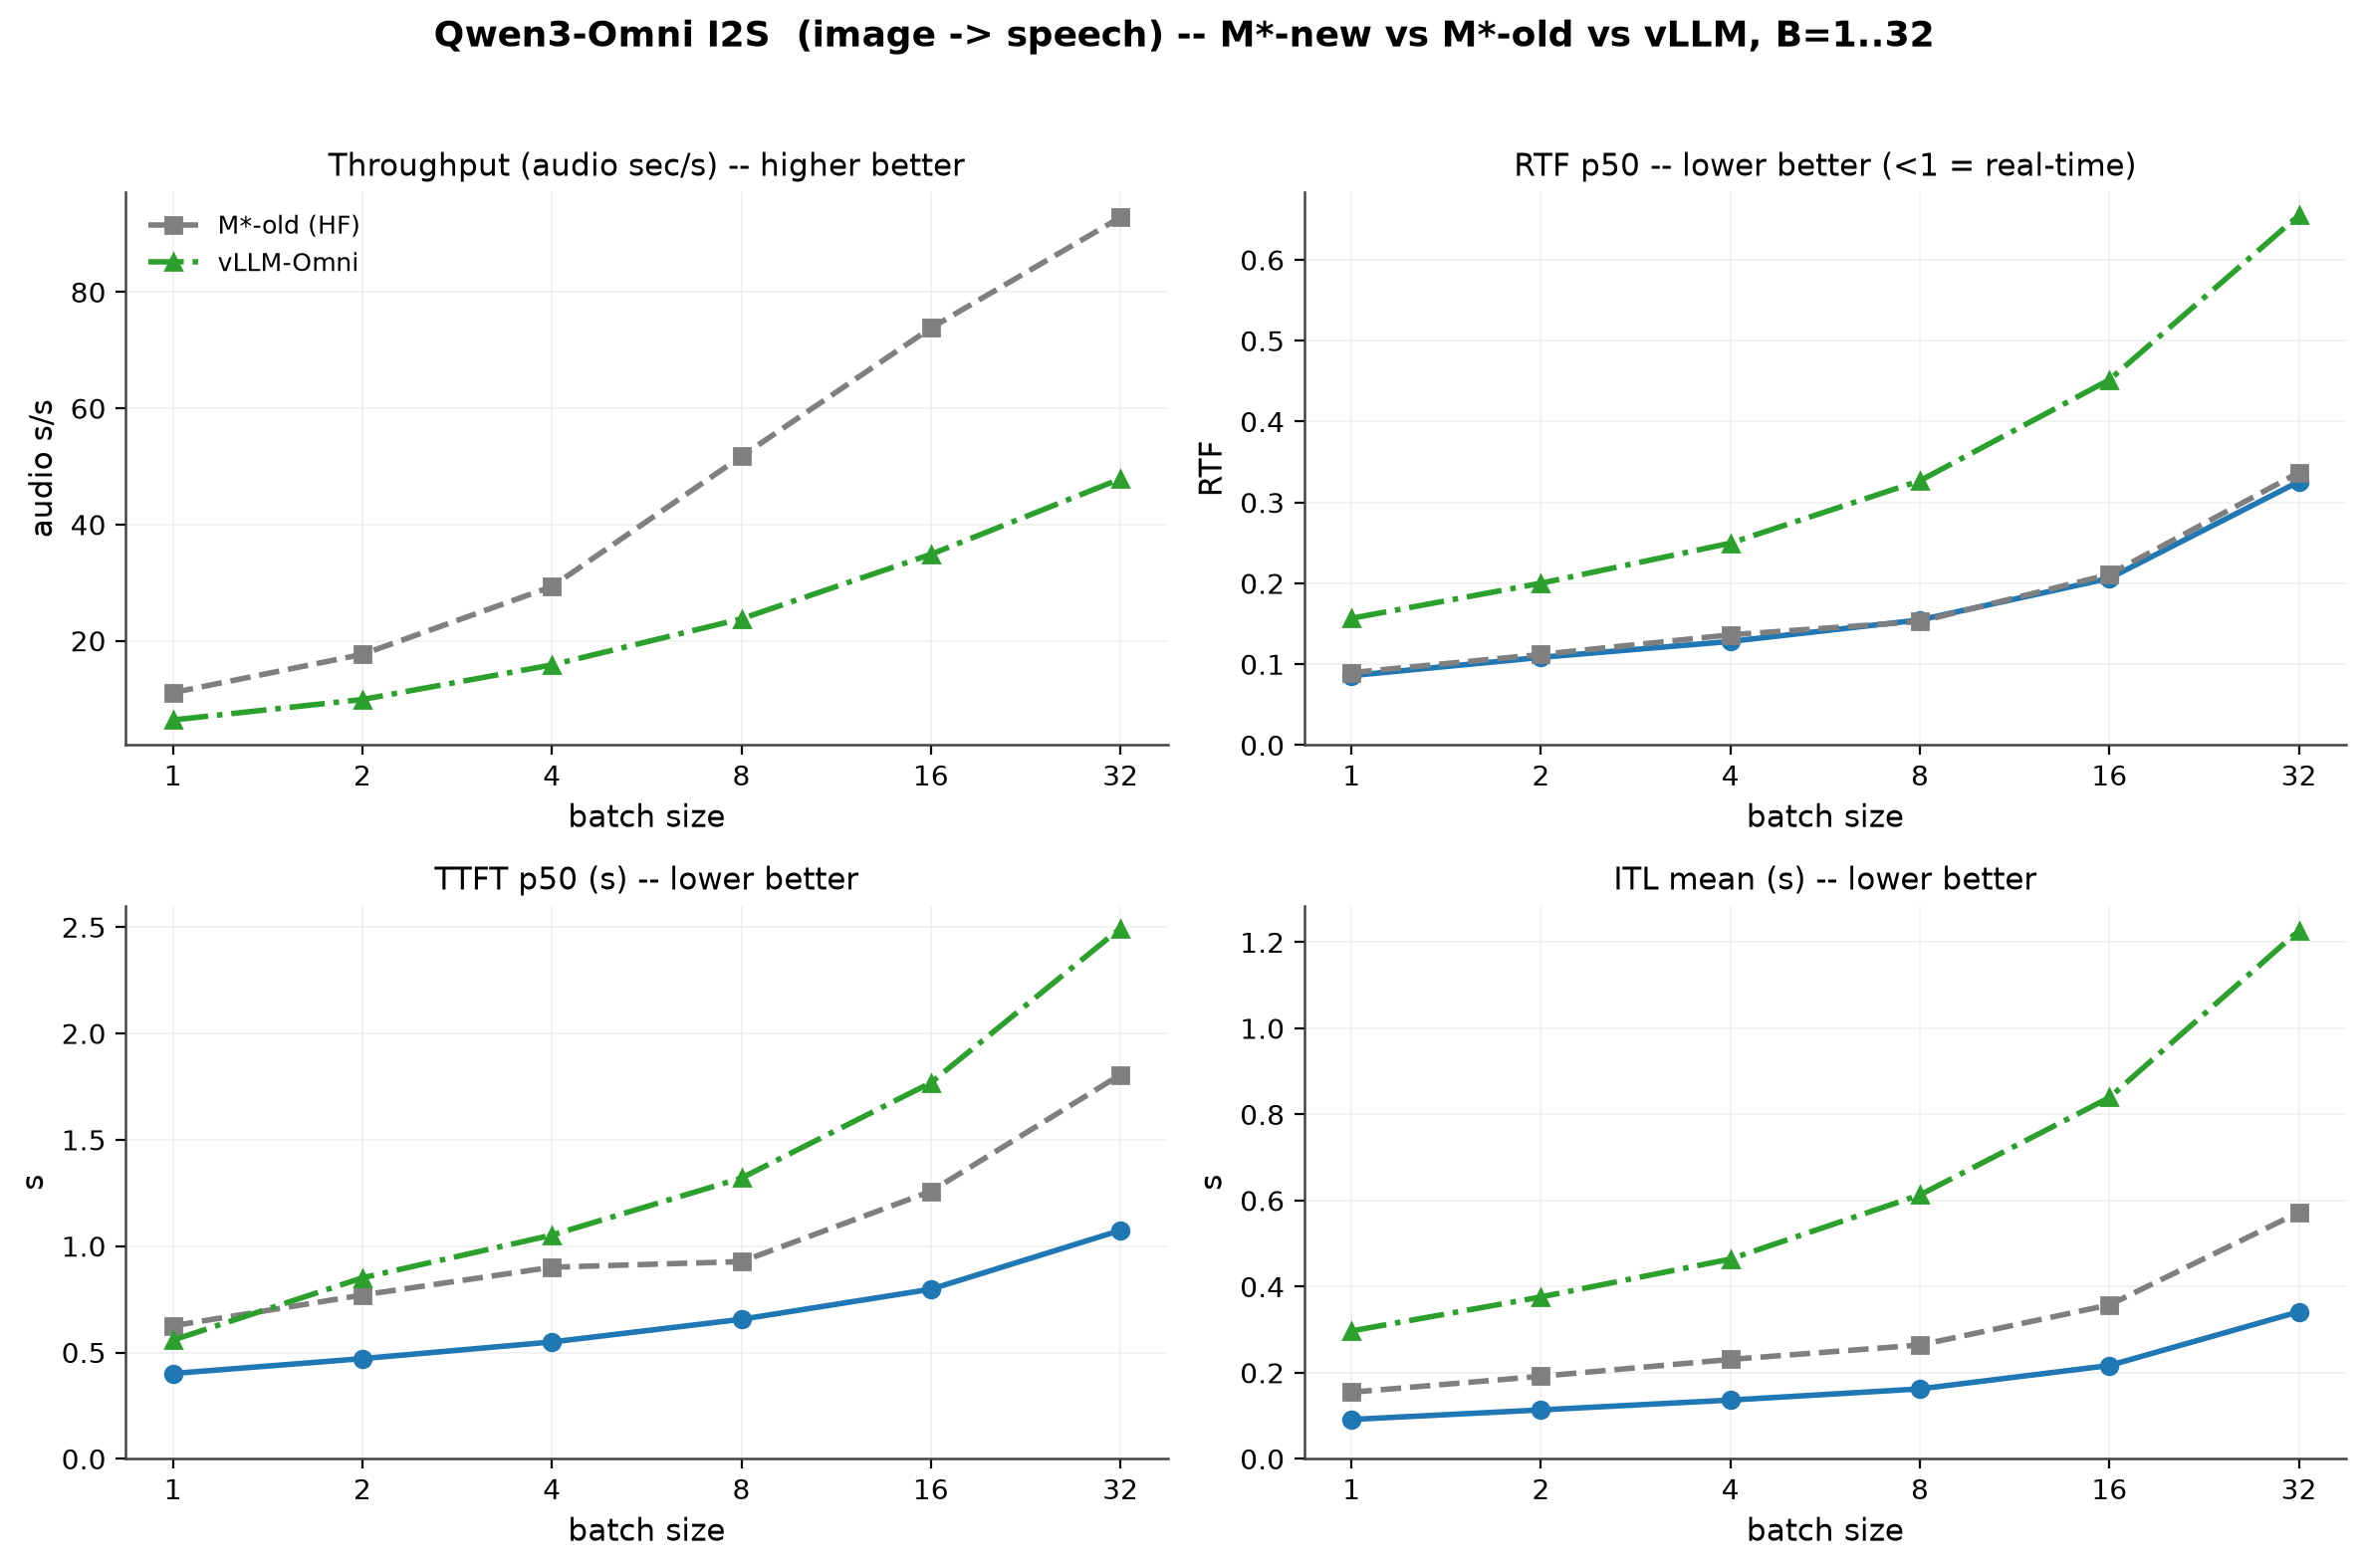
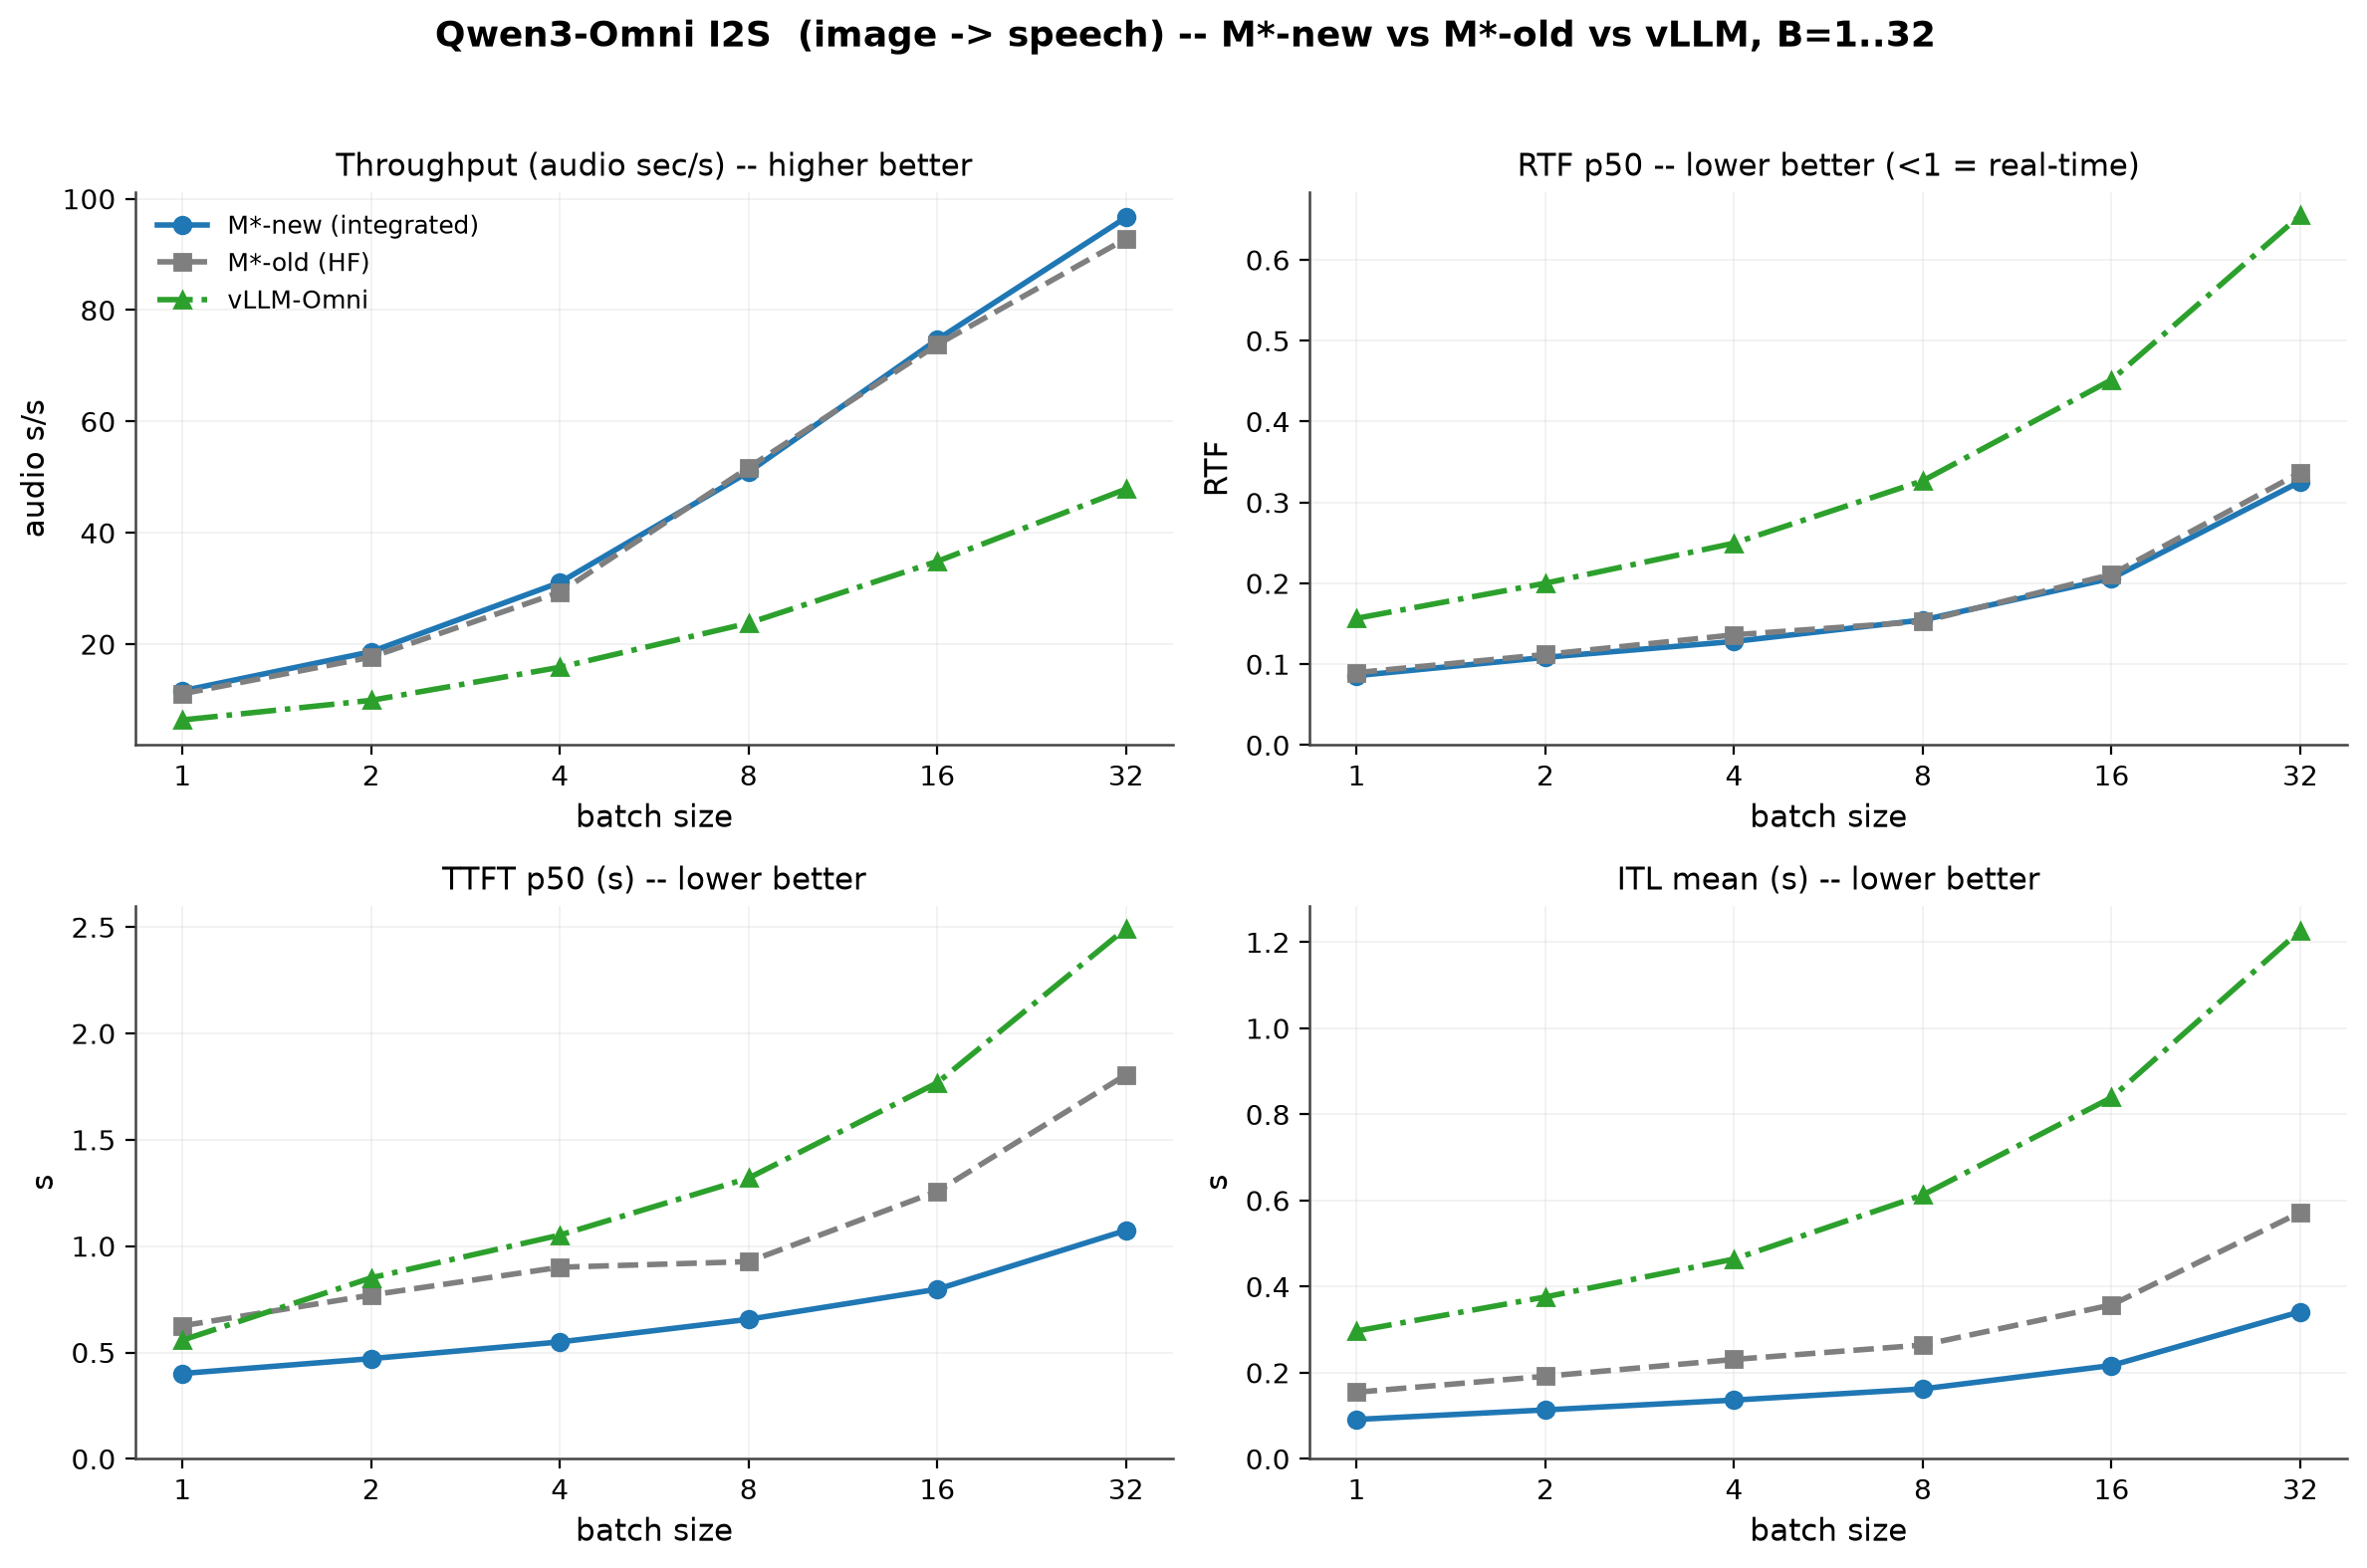
bench(qwen3-omni): backfill audio_throughput for S2S/I2S, regenerate NUMBERS.md + charts
audio_seconds_throughput was missing from mstar_new aggregates for speech
paths. Backfilled from sweep results.json. NUMBERS.md now includes
audio_s_per_s and RTF rows for I2S and S2S.

Claude-Session: https://claude.ai/code/session_01UYwpkha1NsSxjFxcGaWVDT

diff --git a/benchmarks/qwen3-omni-joint/NUMBERS.md b/benchmarks/qwen3-omni-joint/NUMBERS.md
@@ -69,51 +69,75 @@ throughput unit = **tok/s**; req/s / TTFT(text) p50 / ITL(text) mean
 
 ## I2S -- image_to_speech
 
-throughput unit = **req/s**; TTFT(audio) p50 / ITL(audio) mean
+throughput unit = **audio s/s**; req/s / RTF p50 / TTFT(audio) p50 / ITL(audio) mean
 
 | B | metric | M*-new | M*-old | vLLM | new/vLLM | new/old |
 |---|---|---|---|---|---|---|
+| 1 | audio_s_per_s | 11.6260 | 11.0862 | 6.3860 | 1.82x | 1.05x |
 | 1 | req_per_s | 0.2767 | 0.2354 | 0.1029 | 2.69x | 1.18x |
+| 1 | RTF_p50 | 0.0859 | 0.0895 | 0.1568 | 1.83x | 1.04x |
 | 1 | TTFT_p50 | 0.4012 | 0.6255 | 0.5580 | 1.39x | 1.56x |
 | 1 | ITL_mean | 0.0914 | 0.1547 | 0.2970 | 3.25x | 1.69x |
+| 2 | audio_s_per_s | 18.6390 | 17.6750 | 9.9058 | 1.88x | 1.05x |
 | 2 | req_per_s | 0.4577 | 0.3933 | 0.1583 | 2.89x | 1.16x |
+| 2 | RTF_p50 | 0.1085 | 0.1120 | 0.2001 | 1.85x | 1.03x |
 | 2 | TTFT_p50 | 0.4710 | 0.7701 | 0.8510 | 1.81x | 1.63x |
 | 2 | ITL_mean | 0.1136 | 0.1918 | 0.3760 | 3.31x | 1.69x |
+| 4 | audio_s_per_s | 31.0878 | 29.3348 | 15.8497 | 1.96x | 1.06x |
 | 4 | req_per_s | 0.7348 | 0.6438 | 0.2516 | 2.92x | 1.14x |
+| 4 | RTF_p50 | 0.1281 | 0.1363 | 0.2497 | 1.95x | 1.06x |
 | 4 | TTFT_p50 | 0.5494 | 0.9008 | 1.0520 | 1.91x | 1.64x |
 | 4 | ITL_mean | 0.1364 | 0.2309 | 0.4640 | 3.40x | 1.69x |
+| 8 | audio_s_per_s | 50.9289 | 51.7271 | 23.7847 | 2.14x | 0.98x |
 | 8 | req_per_s | 1.1465 | 1.1077 | 0.3796 | 3.02x | 1.03x |
+| 8 | RTF_p50 | 0.1547 | 0.1528 | 0.3269 | 2.11x | 0.99x |
 | 8 | TTFT_p50 | 0.6560 | 0.9272 | 1.3200 | 2.01x | 1.41x |
 | 8 | ITL_mean | 0.1624 | 0.2643 | 0.6130 | 3.77x | 1.63x |
+| 16 | audio_s_per_s | 74.7090 | 73.8076 | 34.8718 | 2.14x | 1.01x |
 | 16 | req_per_s | 1.7234 | 1.6011 | 0.5578 | 3.09x | 1.08x |
+| 16 | RTF_p50 | 0.2062 | 0.2111 | 0.4517 | 2.19x | 1.02x |
 | 16 | TTFT_p50 | 0.7974 | 1.2577 | 1.7680 | 2.22x | 1.58x |
 | 16 | ITL_mean | 0.2168 | 0.3575 | 0.8390 | 3.87x | 1.65x |
+| 32 | audio_s_per_s | 96.6406 | 92.8256 | 47.8527 | 2.02x | 1.04x |
 | 32 | req_per_s | 2.2184 | 2.0164 | 0.7597 | 2.92x | 1.10x |
+| 32 | RTF_p50 | 0.3257 | 0.3370 | 0.6550 | 2.01x | 1.03x |
 | 32 | TTFT_p50 | 1.0741 | 1.8056 | 2.4940 | 2.32x | 1.68x |
 | 32 | ITL_mean | 0.3416 | 0.5724 | 1.2270 | 3.59x | 1.68x |
 
 ## S2S -- audio_to_speech
 
-throughput unit = **req/s**; TTFT(audio) p50 / ITL(audio) mean
+throughput unit = **audio s/s**; req/s / RTF p50 / TTFT(audio) p50 / ITL(audio) mean
 
 | B | metric | M*-new | M*-old | vLLM | new/vLLM | new/old |
 |---|---|---|---|---|---|---|
+| 1 | audio_s_per_s | 8.6021 | 4.2319 | 5.5858 | 1.54x | 2.03x |
 | 1 | req_per_s | 2.7260 | 1.3325 | 0.7935 | 3.44x | 2.05x |
+| 1 | RTF_p50 | 0.1224 | 0.2288 | 0.1886 | 1.54x | 1.87x |
 | 1 | TTFT_p50 | 0.2244 | 0.5988 | 0.5340 | 2.38x | 2.67x |
 | 1 | ITL_mean | 0.0668 | 0.0851 | 0.2390 | 3.58x | 1.27x |
+| 2 | audio_s_per_s | 12.7830 | 7.3188 | 8.8127 | 1.45x | 1.75x |
 | 2 | req_per_s | 4.2849 | 2.2903 | 1.2890 | 3.32x | 1.87x |
+| 2 | RTF_p50 | 0.1576 | 0.2964 | 0.2431 | 1.54x | 1.88x |
 | 2 | TTFT_p50 | 0.3023 | 0.8374 | 0.7100 | 2.35x | 2.77x |
 | 2 | ITL_mean | 0.0835 | 0.0382 | 0.2730 | 3.27x | 0.46x |
+| 4 | audio_s_per_s | 17.9603 | 7.1647 | 13.7993 | 1.30x | 2.51x |
 | 4 | req_per_s | 5.9148 | 2.3825 | 2.0117 | 2.94x | 2.48x |
+| 4 | RTF_p50 | 0.2136 | 0.5334 | 0.3055 | 1.43x | 2.50x |
 | 4 | TTFT_p50 | 0.4251 | 1.2781 | 0.9110 | 2.14x | 3.01x |
 | 4 | ITL_mean | 0.1022 | 0.1826 | 0.3430 | 3.36x | 1.79x |
+| 8 | audio_s_per_s | 27.4938 | 7.5456 | 19.5556 | 1.41x | 3.64x |
 | 8 | req_per_s | 8.8005 | 2.4048 | 2.8928 | 3.04x | 3.66x |
+| 8 | RTF_p50 | 0.2808 | 1.0780 | 0.3948 | 1.41x | 3.84x |
 | 8 | TTFT_p50 | 0.6080 | 2.9416 | 1.2470 | 2.05x | 4.84x |
 | 8 | ITL_mean | 0.1238 | 0.0865 | 0.4340 | 3.51x | 0.70x |
+| 16 | audio_s_per_s | 39.1264 | 7.3459 | 24.1285 | 1.62x | 5.33x |
 | 16 | req_per_s | 12.7308 | 2.3957 | 3.6151 | 3.52x | 5.31x |
+| 16 | RTF_p50 | 0.3869 | 2.0912 | 0.5336 | 1.38x | 5.41x |
 | 16 | TTFT_p50 | 0.8322 | 6.2094 | 1.6740 | 2.01x | 7.46x |
 | 16 | ITL_mean | 0.1528 | 0.1428 | 0.5560 | 3.64x | 0.93x |
+| 32 | audio_s_per_s | 54.6305 | 8.4385 | 33.5188 | 1.63x | 6.47x |
 | 32 | req_per_s | 18.4827 | 2.4140 | 4.9191 | 3.76x | 7.66x |
+| 32 | RTF_p50 | 0.6010 | 4.2972 | 0.7783 | 1.29x | 7.15x |
 | 32 | TTFT_p50 | 1.3001 | 12.8144 | 2.3160 | 1.78x | 9.86x |
 | 32 | ITL_mean | 0.2183 | 0.1454 | 0.8520 | 3.90x | 0.67x |
 